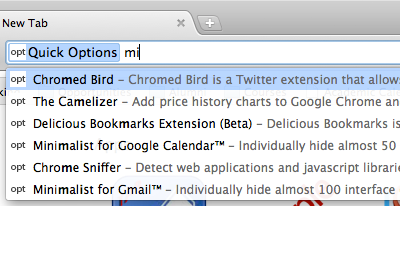
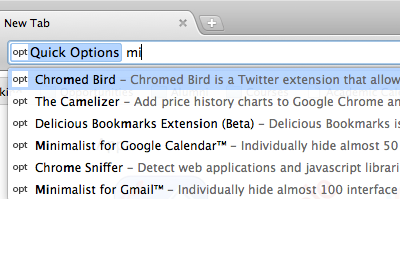
fixed character case bug

Changed region(s): [[0.0, 0.1455, 1.0, 0.7564], [0.45, 0.0291, 0.54, 0.1455], [0.0, 0.0582, 0.12, 0.1164]]

diff --git a/background.html b/background.html
@@ -19,22 +19,37 @@ function buildRegex(input) {
     return new RegExp(regex, 'i');
 }
 
+function minPositive(x, y) {
+    if (x < 0) {
+	return y;
+    } else if (y < 0) {
+	return x;
+    } else {
+	return Math.min(x, y);
+    }
+}
+
 function insertMatches(matches, name) {
     var styledName = '';
-    var nextChar = 0;
+    var nextCharIndex = 0;
     
     for (var i in matches) {
 	var match = matches[i];
-	var remainder = name.substring(nextChar);
-	var matchIndex = remainder.indexOf(match) + nextChar;
-	styledName += name.substring(nextChar, matchIndex);
-	nextChar = matchIndex + match.length;
+	var remainder = name.substring(nextCharIndex);
+	var minIndex = minPositive(
+	    remainder.indexOf(match.toLowerCase()),
+	    remainder.indexOf(match.toUpperCase())
+	);
+	var matchIndex = minIndex + nextCharIndex;
+	styledName += name.substring(nextCharIndex, matchIndex);
+	nextCharIndex = matchIndex + match.length;
+
 	styledName += '<match>';
-	styledName += name.substring(matchIndex, nextChar);
+	styledName += name.substring(matchIndex, nextCharIndex);
 	styledName += '</match>';
     }
 
-    return styledName + name.substring(nextChar);
+    return styledName + name.substring(nextCharIndex);
 }
 
 function buildSuggestion(matches, app) {
@@ -49,6 +64,15 @@ function buildSuggestion(matches, app) {
 	'content': app.name,
 	'description' : description
     };
+}
+
+function setDefaultSuggestion(suggestions) {
+    if (suggestions.length > 0) {
+	bestMatch = apps[suggestions[0].content].optionsUrl;
+        chrome.omnibox.setDefaultSuggestion(
+            { description: suggestions.shift().description }
+	);
+    }
 }
 
 var inputChanged = function(input, suggestionsCallback) {
@@ -67,14 +91,7 @@ var inputChanged = function(input, suggestionsCallback) {
 	}
     }
     
-    if (suggestions.length > 0) {
-	bestMatch = apps[suggestions[0].content].optionsUrl;
-        chrome.omnibox.setDefaultSuggestion(
-            { description: suggestions.shift().description }
-	);
-        
-    }
-
+    setDefaultSuggestion(suggestions);
     suggestionsCallback(suggestions);
 };
 
